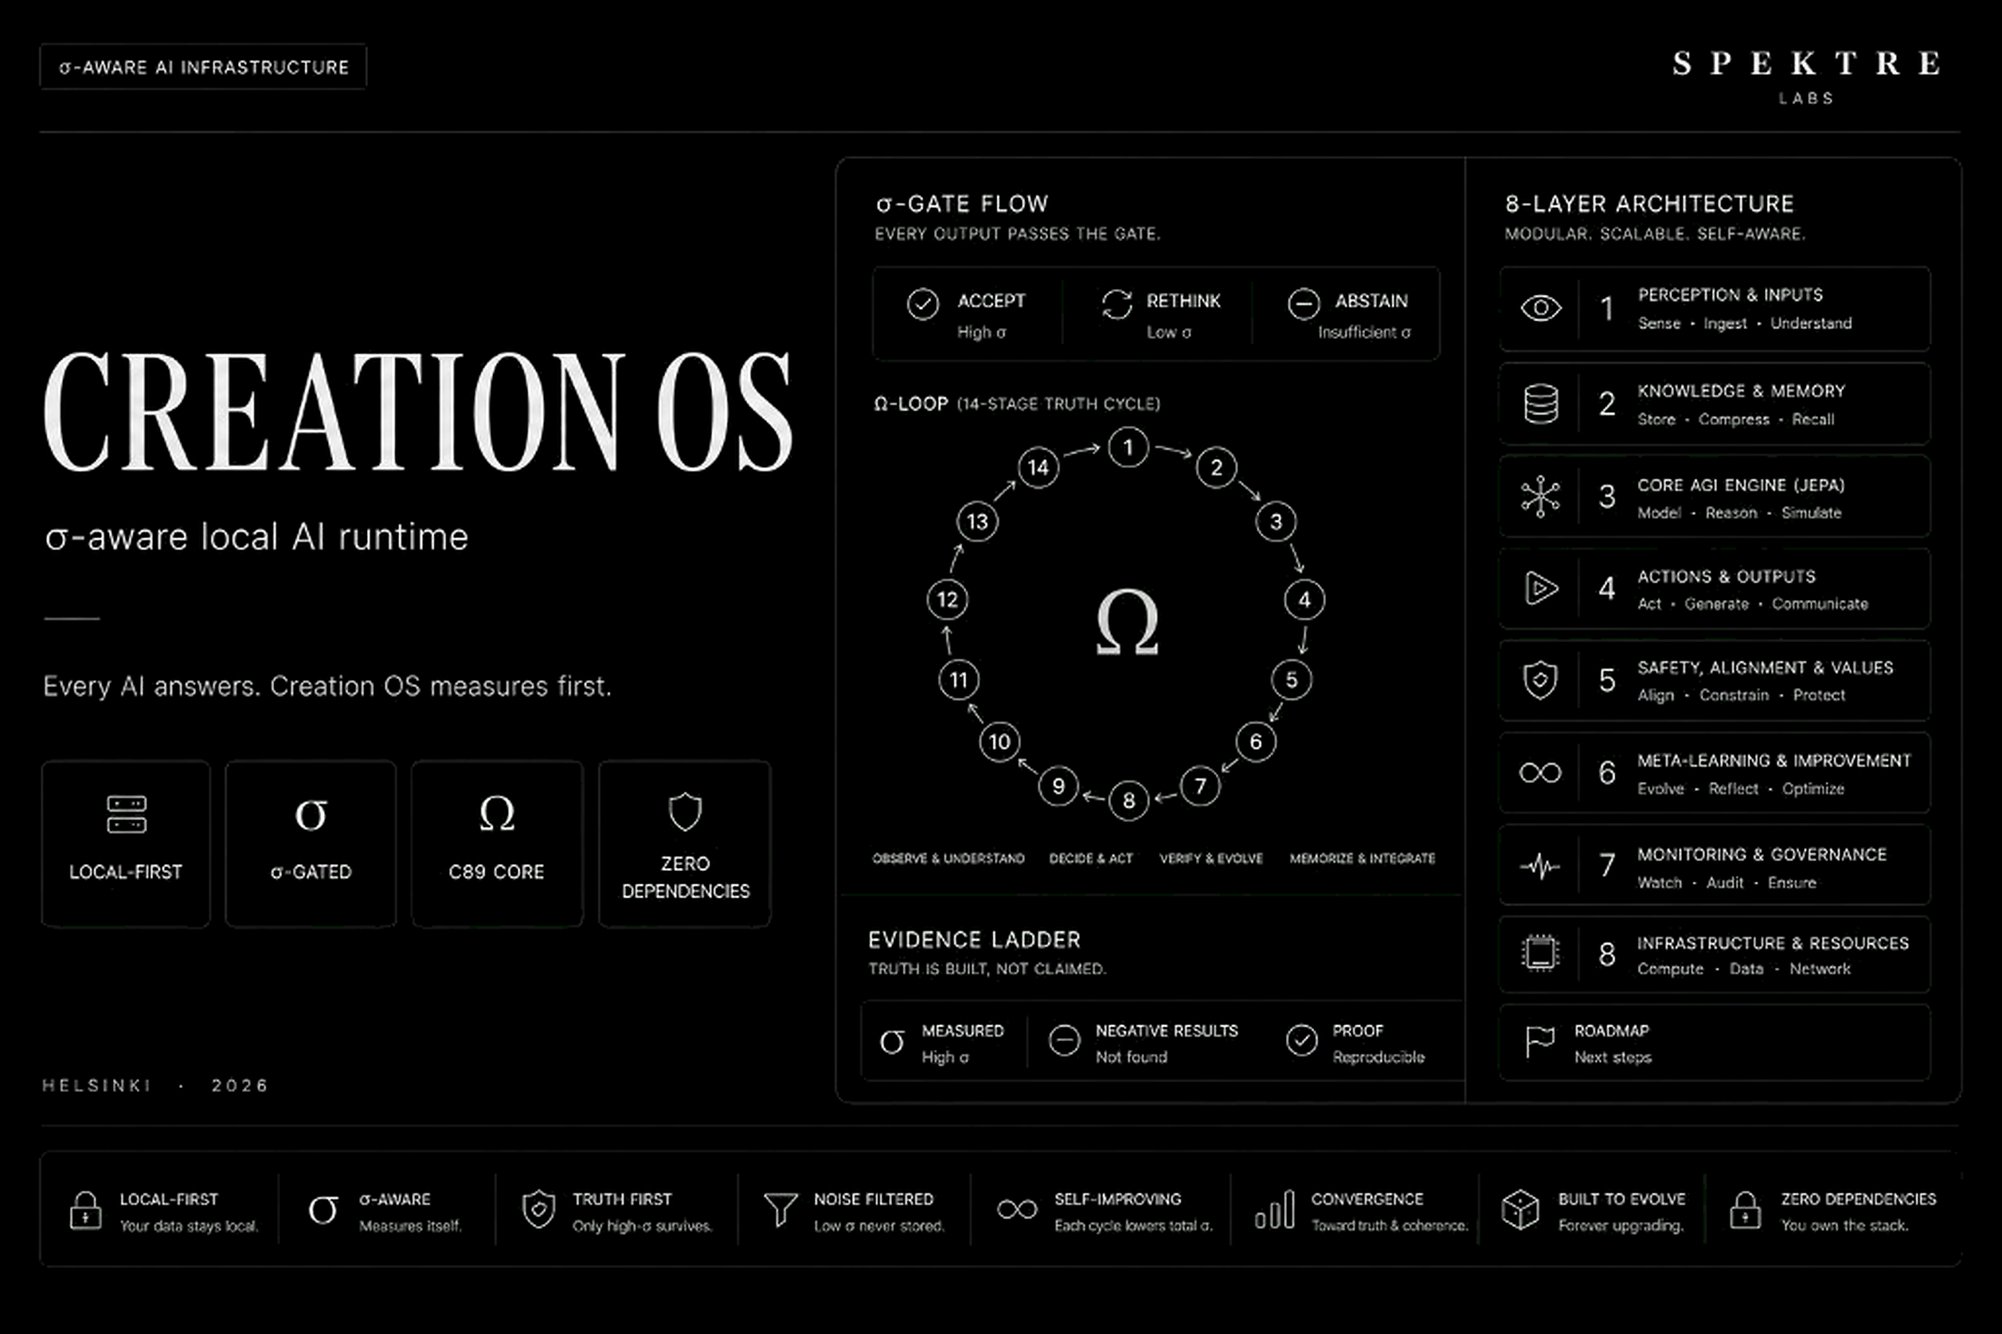
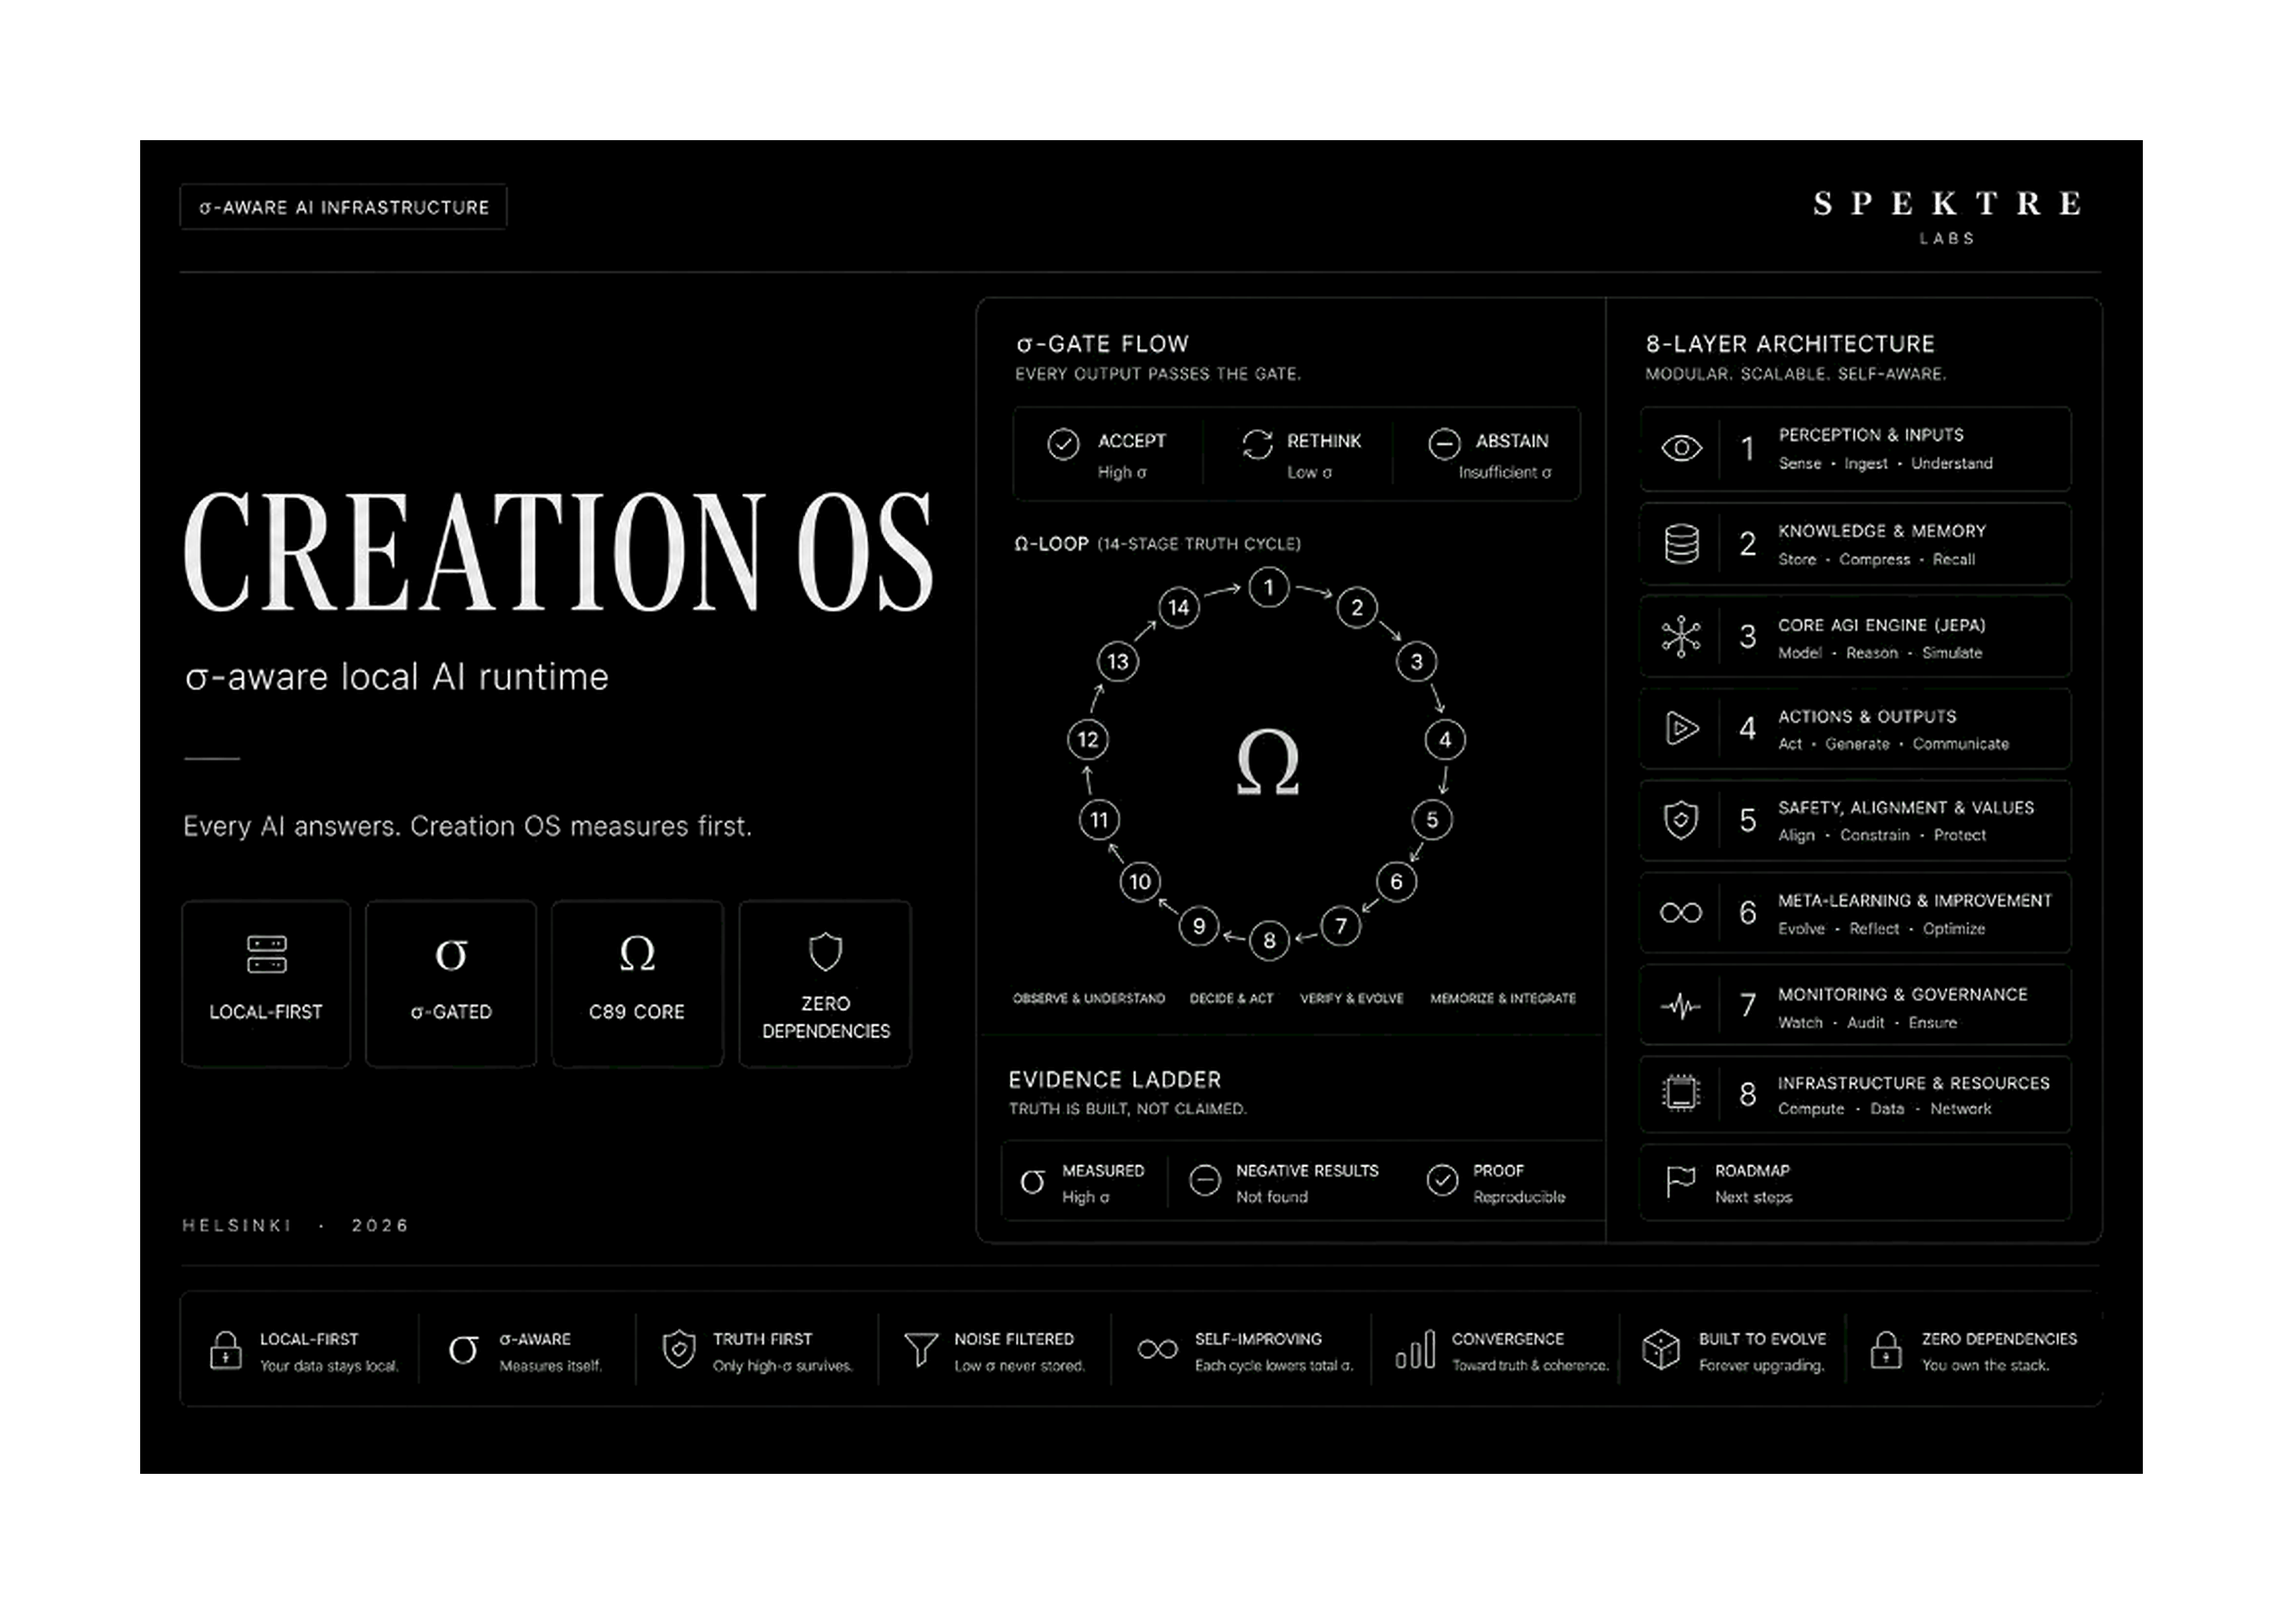
docs: hero figure mat + full-bleed README chrome (no card crop)
Pad creation-os-hero.png with uniform 7% white margins so the dark
Spektre dashboard breathes like a print mat on GitHub light theme.
Remove border and corner radius on the hero embed; use a softer,
wider drop shadow and slightly wider max-width so it does not read
as a clipped UI card.

diff --git a/README.md b/README.md
@@ -20,11 +20,11 @@
 <p align="center">
   <img
     src="./assets/creation-os-hero.png"
-    width="92%"
+    width="96%"
     alt="Creation OS — σ-aware architecture overview (Spektre Labs luxury tech map)"
     decoding="async"
     fetchpriority="high"
-    style="max-width:min(1180px,100%);height:auto;border-radius:4px;border:1px solid rgba(0,0,0,0.07);box-shadow:0 28px 56px -12px rgba(0,0,0,0.2);"
+    style="max-width:min(1320px,100%);height:auto;border-radius:0;border:0;box-shadow:0 48px 100px -28px rgba(0,0,0,0.11);"
   />
 </p>
 
